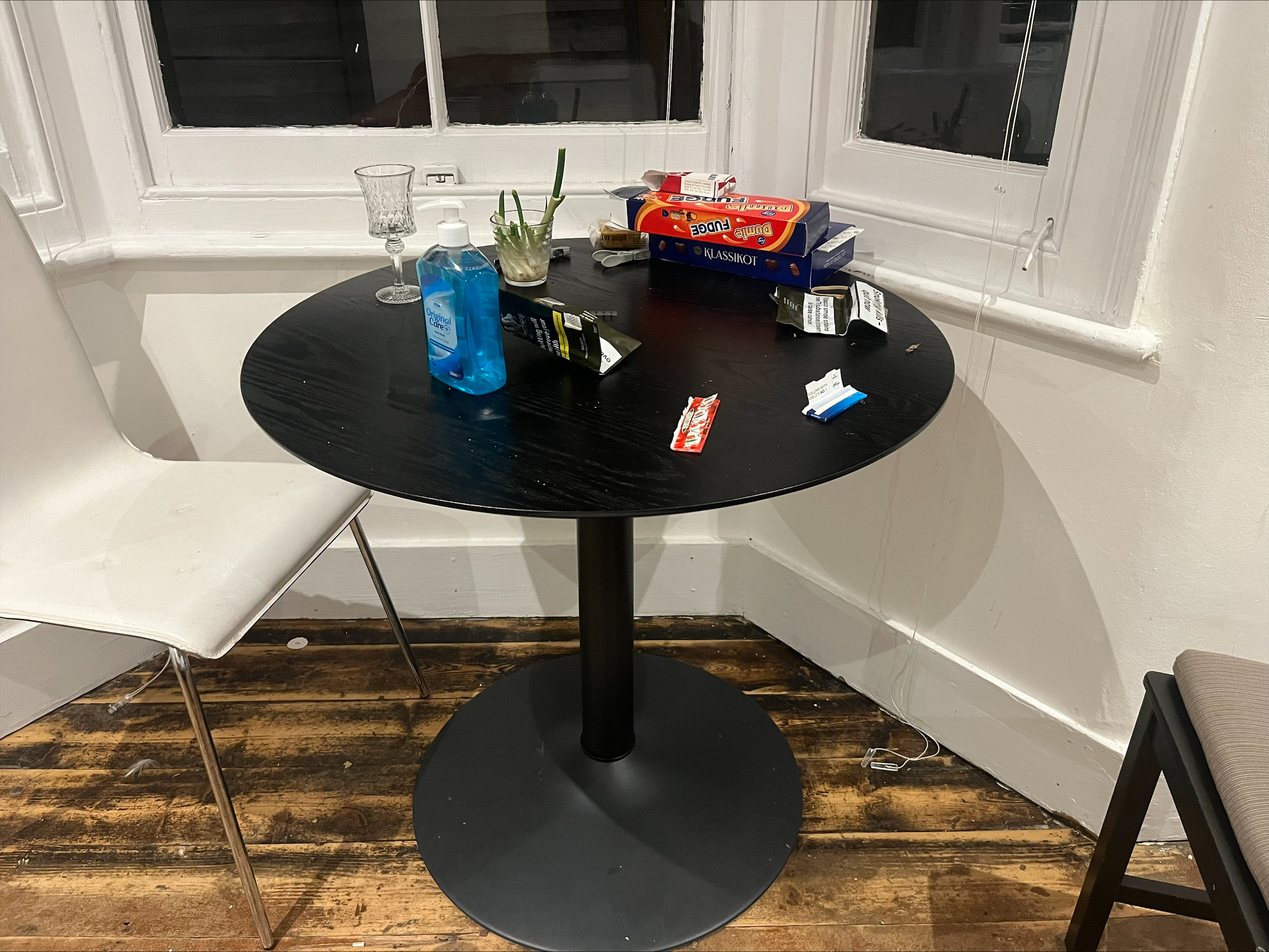
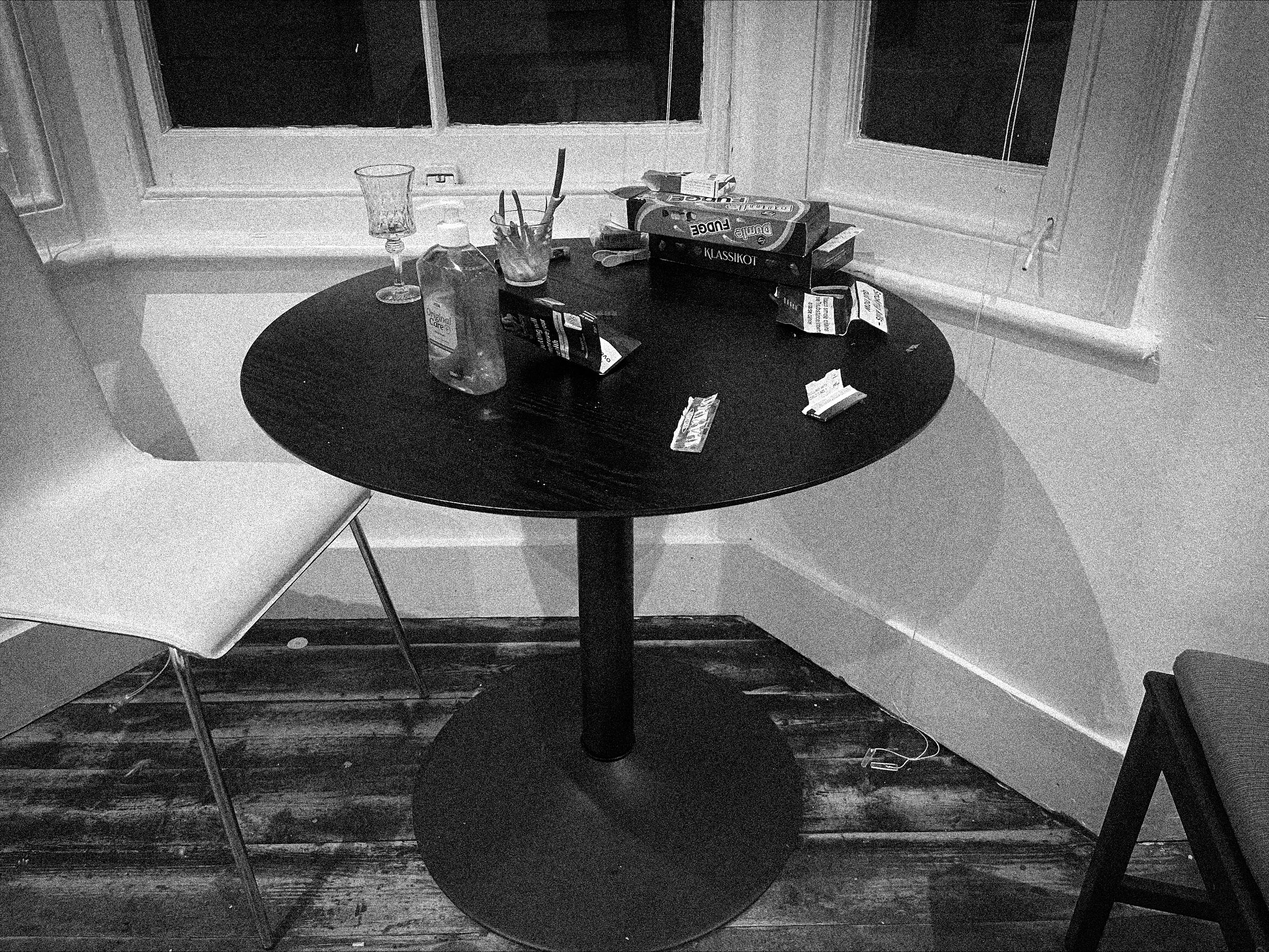
first 3 pages done of socool

diff --git a/pages/socool1.html b/pages/socool1.html
@@ -12,16 +12,14 @@
 <div class="container11">
 
 <div style="position:relative" class="simpleimage">
-    <img src="../images/img38.jpeg" style="width:70%;">
-    <div style="position:absolute; left: 350px; top: 300px;"><a class="next5" href=
-        "../pages/socool1.html">Left</a></div>
+    <img src="../images/img40.jpeg" style="width:70%;">
+    
         <div style="position:absolute; right: 350px; top: 300px;"><a class="next5" href=
-            "../pages/socool2.html">Right</a></div>
+            "../pages/socool.html">Right</a></div>
 </div>
 
 <div class="text1">
-<h3>Get to your bedroom. You've had too much to drink and it's about to start showing.</h3>
-<p>Run. Although you might stumble, you need to run!</p>
+<h3>Whoa! You're stumbling, get back on track!</h3>
 
 </div>
     

diff --git a/pages/socool2.html b/pages/socool2.html
@@ -12,16 +12,13 @@
 <div class="container11">
 
 <div style="position:relative" class="simpleimage">
-    <img src="../images/img38.jpeg" style="width:70%;">
+    <img src="../images/img43.jpeg" style="width:70%;">
     <div style="position:absolute; left: 350px; top: 300px;"><a class="next5" href=
-        "../pages/socool1.html">Left</a></div>
-        <div style="position:absolute; right: 350px; top: 300px;"><a class="next5" href=
-            "../pages/socool2.html">Right</a></div>
+        "../pages/socool.html">Left</a></div>
 </div>
 
 <div class="text1">
-<h3>Get to your bedroom. You've had too much to drink and it's about to start showing.</h3>
-<p>Run. Although you might stumble, you need to run!</p>
+    <h3>Whoa! You're stumbling, get back on track!</h3>
 
 </div>
     
